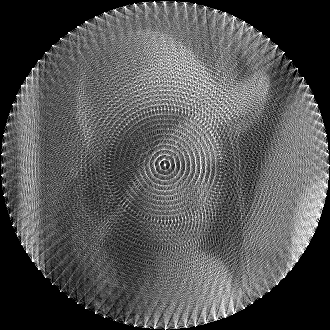
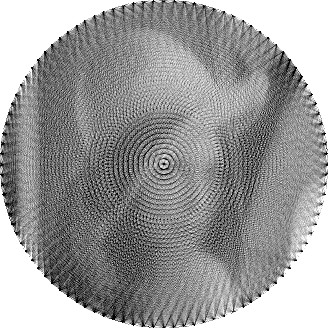
side by side plot of preprocess methods

diff --git a/stringart/misc/image_preprocessing.py b/stringart/misc/image_preprocessing.py
@@ -1,10 +1,27 @@
+from concurrent.futures import ProcessPoolExecutor
+from typing import Callable
+
 import numpy as np
 from matplotlib import pyplot as plt
+from stringart.misc.least_squares_rounding_trial import compute_solution
+from stringart.misc.linear_least_squares import linear_least_squares
 from stringart.utils.image import ImageWrapper
+from stringart.utils.types import CropMode, MatrixRepresentation
 
 image_path = "../../imgs/lena.png"
-image = ImageWrapper.read_bw(image_path, inverted=False)
+image_noninverted = ImageWrapper.read_bw(image_path, inverted=False)
 cmap = "grey"
+
+image = ImageWrapper.read_bw(image_path)
+shape = image.shape
+crop_mode: CropMode = "center"
+number_of_pegs = 100
+matrix_representation: MatrixRepresentation = "sparse"
+
+
+def save_img(img: np.ndarray, name: str, cmap: str = "grey") -> None:
+    plt.imshow(img, cmap=cmap)
+    plt.imsave(f"../../outputs/preprocess/{name}.png", img, cmap=cmap)
 
 
 def plot_preprocess(src: np.ndarray, dst: np.ndarray, title: str, fname: str) -> None:
@@ -23,14 +40,107 @@ def plot_preprocess(src: np.ndarray, dst: np.ndarray, title: str, fname: str) ->
     fig.savefig(fname)
 
 
+def process_image(
+    image: np.ndarray, preprocess_func: Callable, shape, number_of_pegs, crop_mode, matrix_representation
+):
+    processed_image = preprocess_func(image)
+    A, x = linear_least_squares(processed_image, shape, number_of_pegs, crop_mode, matrix_representation)
+    return compute_solution(A, x)
+
+
+def identity(src: np.ndarray) -> np.ndarray:
+    return src
+
+
+def compute_solution_parallel(src, shape, number_of_pegs, crop_mode, matrix_representation):
+    with ProcessPoolExecutor() as executor:
+        futures = {
+            "raw": executor.submit(
+                process_image,
+                src,
+                identity,
+                shape,
+                number_of_pegs,
+                crop_mode,
+                matrix_representation,
+            ),
+            "histogram_equalization": executor.submit(
+                process_image,
+                src,
+                ImageWrapper.histogram_equalization,
+                shape,
+                number_of_pegs,
+                crop_mode,
+                matrix_representation,
+            ),
+            "grayscale_quantization": executor.submit(
+                process_image,
+                src,
+                ImageWrapper.grayscale_quantization,
+                shape,
+                number_of_pegs,
+                crop_mode,
+                matrix_representation,
+            ),
+        }
+
+        # Collect the results
+        results = {name: future.result() for name, future in futures.items()}
+
+    # Extract results
+    solution_raw = results["raw"]
+    solution_histogram_equalization = results["histogram_equalization"]
+    solution_grayscale_quantization = results["grayscale_quantization"]
+
+    return solution_raw, solution_histogram_equalization, solution_grayscale_quantization
+
+
+def compute_plot_preprocessed(src: np.ndarray) -> None:
+    solution_raw, solution_histogram_equalization, solution_grayscale_quantization = compute_solution_parallel(
+        src,
+        shape,
+        number_of_pegs,
+        crop_mode,
+        matrix_representation,
+    )
+
+    fig, axs = plt.subplots(1, 4, constrained_layout=True, figsize=(12, 4))
+    fig.suptitle("Preprocess Effects using Linear Least Squares")
+
+    axs[0].set_title("Input Image")
+    axs[0].imshow(image_noninverted, cmap=cmap)
+    axs[0].axis("off")
+
+    axs[1].set_title("Raw")
+    axs[1].imshow(solution_raw, cmap=cmap)
+    axs[1].axis("off")
+
+    axs[2].set_title("Histogram Equalization")
+    axs[2].imshow(solution_histogram_equalization, cmap=cmap)
+    axs[2].axis("off")
+
+    axs[3].set_title("Grayscale Quantization 2 Levels")
+    axs[3].imshow(solution_grayscale_quantization, cmap=cmap)
+    axs[3].axis("off")
+
+    fig.show()
+    fig.savefig("../../outputs/preprocess/image_processing_stages.png")
+
+
 def main():
-    src = image.copy()
+    src = image_noninverted.copy()
 
     dst = ImageWrapper.histogram_equalization(src)
     plot_preprocess(src, dst, "Histogram Equalization", "../../outputs/misc/histogram_equalization_preprocess.png")
+    save_img(dst, "histogram_equalization_preprocess")
 
     dst = ImageWrapper.grayscale_quantization(src)
-    plot_preprocess(src, dst, "Grayscale Quantization", "../../outputs/misc/grayscale_quantization_preprocess.png")
+    # fmt: off
+    plot_preprocess(src, dst,"Grayscale Quantization 2 Levels","../../outputs/misc/grayscale_quantization_preprocess.png",)
+    # fmt: on
+    save_img(dst, "grayscale_quantization_2_levels")
+
+    compute_plot_preprocessed(image)
 
 
 if __name__ == "__main__":

diff --git a/stringart/misc/linear_least_squares.py b/stringart/misc/linear_least_squares.py
@@ -19,13 +19,14 @@ matrix_representation: MatrixRepresentation = "sparse"
 
 
 def linear_least_squares(
+    src: np.ndarray,
     shape: tuple[int, ...],
     number_of_pegs: int = 100,
     crop_mode: CropMode = "center",
     matrix_representation: MatrixRepresentation = "sparse",
 ) -> tuple[np.ndarray, np.ndarray]:
     A, _ = MatrixGenerator.compute_matrix(shape, number_of_pegs, crop_mode, matrix_representation)
-    b: np.ndarray = ImageWrapper.flatten_image(image)
+    b: np.ndarray = ImageWrapper.flatten_image(src)
 
     optimize_results = scipy.optimize.lsq_linear(A, b, bounds=(0, np.inf))
 
@@ -40,6 +41,7 @@ def main():
     benchmark = Benchmark(image, crop_mode, number_of_pegs)
     benchmarks_result = benchmark.run_benchmark(
         linear_least_squares,
+        image,
         shape=shape,
         number_of_pegs=number_of_pegs,
         crop_mode=crop_mode,
@@ -47,7 +49,7 @@ def main():
     )
 
     benchmark.save_benchmarks([benchmarks_result], "linear_least_squares")
-    A, x = linear_least_squares(shape, number_of_pegs, crop_mode, matrix_representation)
+    A, x = linear_least_squares(image, shape, number_of_pegs, crop_mode, matrix_representation)
     solution = compute_solution(A, x)
 
     plt.imshow(solution, cmap="grey")
